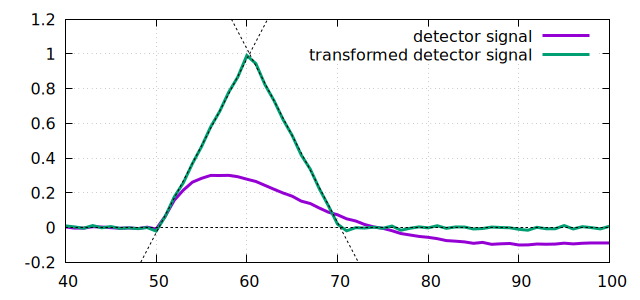
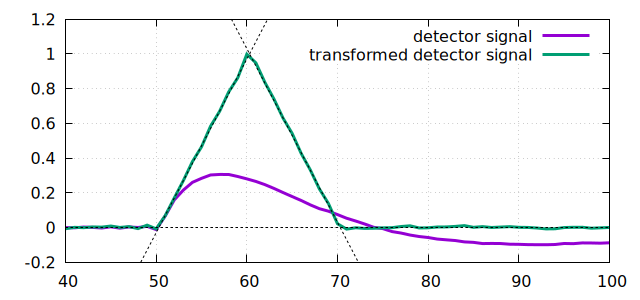
add mawd example

diff --git a/technical-stuff/digital-pulseshape-transformation/README.md b/technical-stuff/digital-pulseshape-transformation/README.md
@@ -18,25 +18,16 @@ With the assumtion, that the signal is a step function that was filtered by a fi
 ```bash 
 ./filtool l5 h5 h5  fit:50,1.0 < demo_signal.dat > demo_signal_fitresult.dat 
            5           5           5          50           1  (  0)
-     9.55795     6.65426     8.74955     49.7959    0.470427  (  1)     chi=89.6374
-     16.8767     16.0206      19.113     50.2495    0.882001  (  2)     chi=51.6394
-     14.6862     13.4389     17.0471     49.5556    0.933384  (  3)     chi=28.239
-     11.8482     10.7412     15.4924     49.9666     1.08932  (  4)     chi=7.88296
-     11.6651     10.3523     16.5656     50.2272     1.11521  (  5)     chi=4.47645
-     11.4501     8.97719      19.052     50.2684     1.12759  (  6)     chi=4.45283
-     10.7041     9.39507      19.875     50.2797     1.06303  (  7)     chi=3.87555
-     10.5547     9.57611     19.8494     50.2794     1.04777  (  8)     chi=3.85333
-     10.4523     9.66465     19.8671     50.2792      1.0375  (  9)     chi=3.85293
-     10.2472       9.839     19.9086     50.2788      1.0169  ( 10)     chi=3.85281
-     10.0456     10.0302     19.9233     50.2787     0.99684  ( 11)     chi=3.85272
-     10.1467      9.9371     19.9129     50.2788     1.00696  ( 12)     chi=3.8525
-     10.1096     9.97498     19.9115     50.2788     1.00327  ( 13)     chi=3.85247
-     10.0344     10.0483     19.9141     50.2788    0.995791  ( 14)     chi=3.85246
-     10.0209     10.0631     19.9124     50.2788    0.994454  ( 15)     chi=3.85245
-     10.0486      10.035      19.913     50.2788    0.997207  ( 16)     chi=3.85245
-     10.0347      10.049      19.913     50.2788    0.995829  ( 17)     chi=3.85245
-     10.0345     10.0492     19.9129     50.2788    0.995815  ( 18)     chi=3.85245
-     10.0345     10.0492     19.9129     50.2788    0.995814  ( 19)     chi=3.85245
+     6.00696     5.46083     5.46091     50.1391    0.918295  (  1)     chi=103.907
+     7.73087     6.88253     6.88254     50.3905    0.813262  (  2)     chi=84.52
+     10.4144     10.6162     10.6161     50.6322    0.836051  (  3)     chi=43.801
+     4.68872     17.5175     17.4804     50.0312    0.476238  (  4)     chi=34.0075
+     7.59019     14.7418     18.4782     50.1547    0.707077  (  5)     chi=9.5782
+     8.04116     13.6565     17.7062     50.3171    0.806944  (  6)     chi=4.21628
+#...
+     10.0145      10.027     19.8401     50.2919     1.00016  ( 24)     chi=4.03008
+     10.0145     10.0271     19.8401     50.2919     1.00016  ( 25)     chi=4.03008
+
 
 ```
 
@@ -56,13 +47,13 @@ The filter specification is followed by a command (gen, fit, apply):
 ![demo_signal_fit](demo_signal_fit.png)
 
 The fit result a good description of the signal. 
-The best estimate for the low pass time constant is `10.0345`.
-The best estimates for the high pass time constants are `10.0492` and `19.9129`.
+The best estimate for the low pass time constant is `10.0145`.
+The best estimates for the high pass time constants are `10.0271` and `19.8401`.
 
 Indeed the signal was generated from a step function tha was processed with a low pass filter with time constant `10` and two high pass filterse with time constants `10` and `20` with the following command:
 
 ```bash
-./filtool l10 h10 h20 gen:-50.3,1.0,150.3,0.02 > demo_signal.dat
+./filtool l10 h10 h20 gen:-50.3,1.0,150.3,0.004 > demo_signal.dat
 ```
 
 # Filter inversion
@@ -72,7 +63,7 @@ Knowing the filter topology and filter paramters, it is possible to apply matchi
 This can be done with the command: 
 
 ```bash
-./filtool L10.0345 H10.0492 H19.9129 apply < demo_signal.dat > step_reconstruction.dat
+./filtool L10.0145 H10.0271 H19.8401 apply < demo_signal.dat > step_reconstruction.dat
 ```
 
 ![step_reconstruction](step_reconstruction.png)
@@ -83,11 +74,18 @@ However, the reconstructed step function allows to reshape the pulse shape by ap
 This can be done with the command: 
 
 ```bash
-./filtool L10.0345 H10.0492 H19.9129 i10 d10 apply < demo_signal.dat > triangle.dat
+./filtool L10.0145 H10.0271 H19.8401 i10 d10 apply < demo_signal.dat > triangle.dat
 ```
 
 ![triangle](triangle.png)
 
-It is possible to create a filter that transforms an arbitrary signals shape into triangular shape.
-The only condition is that the original signal must be derived from a step function. 
+It is possible to create a filter that transforms pulses of a specific shape into triangular shape.
+The only condition is that the specific pulse shape must be derived from a step function. 
 
+# Example: Moving average window deconvolution filter (MAWD)
+
+The MAWD filter is a special case in which a single inverse high pass filter, a window integral and a delayed difference are applide to a signal:
+Note that the MAWD does not compensate the finite rising edge of the signal.
+Instead it uses a wide enough `delayed difference`, and samples the amplitude towards the end of the flat part of the trapezoid where the shape of the rising edge of the pulse has no influence anymore. 
+
+![mawd](mawd.png)
